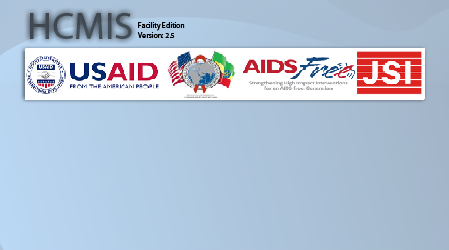
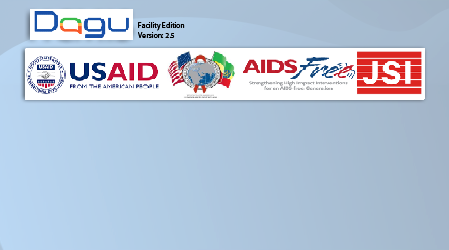
dagu rename and itemdetail overstock label fix

Changed region(s): [[0.0624, 0.028, 0.3118, 0.168]]

diff --git a/PharmInventory/MainWindow.Designer.cs b/PharmInventory/MainWindow.Designer.cs
@@ -61,6 +61,7 @@ namespace PharmInventory
             this.summaryChartsToolStripMenuItem = new System.Windows.Forms.ToolStripMenuItem();
             this.stockExpiryStatusToolStripMenuItem = new System.Windows.Forms.ToolStripMenuItem();
             this.costSummaryToolStripMenuItem = new System.Windows.Forms.ToolStripMenuItem();
+            this.wastageRateToolStripMenuItem = new System.Windows.Forms.ToolStripMenuItem();
             this.summaryReportToolStripMenuItem = new System.Windows.Forms.ToolStripMenuItem();
             this.transactionLogToolStripMenuItem = new System.Windows.Forms.ToolStripMenuItem();
             this.receiveTransactionToolStripMenuItem = new System.Windows.Forms.ToolStripMenuItem();
@@ -130,6 +131,7 @@ namespace PharmInventory
             this.lbiSummaryChart = new DevExpress.XtraNavBar.NavBarItem();
             this.lbiStockExpiryStatus = new DevExpress.XtraNavBar.NavBarItem();
             this.lbiCostSummary = new DevExpress.XtraNavBar.NavBarItem();
+            this.WastageRate = new DevExpress.XtraNavBar.NavBarItem();
             this.navBarGroup6 = new DevExpress.XtraNavBar.NavBarGroup();
             this.navBarFacilitySettings = new DevExpress.XtraNavBar.NavBarItem();
             this.navBarItem2 = new DevExpress.XtraNavBar.NavBarItem();
@@ -148,7 +150,6 @@ namespace PharmInventory
             this.statusStrip = new System.Windows.Forms.StatusStrip();
             this.toolStripStatusLabel1 = new System.Windows.Forms.ToolStripStatusLabel();
             this.bwDOSCalculator = new System.ComponentModel.BackgroundWorker();
-            this.wastageRateToolStripMenuItem = new System.Windows.Forms.ToolStripMenuItem();
             ((System.ComponentModel.ISupportInitialize)(this.logoPic)).BeginInit();
             ((System.ComponentModel.ISupportInitialize)(this.mainPanel)).BeginInit();
             this.mainPanel.SuspendLayout();
@@ -479,6 +480,14 @@ namespace PharmInventory
             this.costSummaryToolStripMenuItem.Text = "Cost Summary";
             this.costSummaryToolStripMenuItem.Click += new System.EventHandler(this.OpenMenuItem);
             // 
+            // wastageRateToolStripMenuItem
+            // 
+            this.wastageRateToolStripMenuItem.Name = "wastageRateToolStripMenuItem";
+            this.wastageRateToolStripMenuItem.Size = new System.Drawing.Size(186, 22);
+            this.wastageRateToolStripMenuItem.Tag = "Wastage Rate";
+            this.wastageRateToolStripMenuItem.Text = "Wastage Rate";
+            this.wastageRateToolStripMenuItem.Click += new System.EventHandler(this.OpenMenuItem);
+            // 
             // summaryReportToolStripMenuItem
             // 
             this.summaryReportToolStripMenuItem.Image = global::PharmInventory.Properties.Resources.paper_content_pencil_48;
@@ -720,7 +729,7 @@ namespace PharmInventory
             this.aboutHCMISToolStripMenuItem.Name = "aboutHCMISToolStripMenuItem";
             this.aboutHCMISToolStripMenuItem.Size = new System.Drawing.Size(180, 22);
             this.aboutHCMISToolStripMenuItem.Tag = "About";
-            this.aboutHCMISToolStripMenuItem.Text = "About HCMIS";
+            this.aboutHCMISToolStripMenuItem.Text = "About Dagu";
             this.aboutHCMISToolStripMenuItem.Click += new System.EventHandler(this.OpenMenuItem);
             // 
             // mnuCheckForUpdates
@@ -852,7 +861,8 @@ namespace PharmInventory
             this.navBarItem9,
             this.menuItemPriceOnlyReport,
             this.navBarItem10,
-            this.Activitylog});
+            this.Activitylog,
+            this.WastageRate});
             this.navBarControl1.LinkInterval = 5;
             this.navBarControl1.LinkSelectionMode = DevExpress.XtraNavBar.LinkSelectionModeType.OneInGroup;
             this.navBarControl1.Location = new System.Drawing.Point(0, 0);
@@ -1117,9 +1127,10 @@ namespace PharmInventory
             new DevExpress.XtraNavBar.NavBarItemLink(this.lbiSummaryReport),
             new DevExpress.XtraNavBar.NavBarItemLink(this.lbiSummaryChart),
             new DevExpress.XtraNavBar.NavBarItemLink(this.lbiStockExpiryStatus),
-            new DevExpress.XtraNavBar.NavBarItemLink(this.lbiCostSummary)});
+            new DevExpress.XtraNavBar.NavBarItemLink(this.lbiCostSummary),
+            new DevExpress.XtraNavBar.NavBarItemLink(this.WastageRate)});
             this.navBarGroup3.Name = "navBarGroup3";
-            this.navBarGroup3.SelectedLinkIndex = 5;
+            this.navBarGroup3.SelectedLinkIndex = 4;
             // 
             // lbiSummaryReport
             // 
@@ -1148,6 +1159,12 @@ namespace PharmInventory
             this.lbiCostSummary.Name = "lbiCostSummary";
             this.lbiCostSummary.SmallImage = global::PharmInventory.Properties.Resources._1287390117_chart_curve;
             this.lbiCostSummary.Tag = "Cost Summary";
+            // 
+            // WastageRate
+            // 
+            this.WastageRate.Caption = "Wastage Rate";
+            this.WastageRate.Name = "WastageRate";
+            this.WastageRate.Tag = "Wastage Rate";
             // 
             // navBarGroup6
             // 
@@ -1295,14 +1312,6 @@ namespace PharmInventory
             // 
             this.bwDOSCalculator.DoWork += new System.ComponentModel.DoWorkEventHandler(this.bwDOSCalculator_DoWork);
             this.bwDOSCalculator.RunWorkerCompleted += new System.ComponentModel.RunWorkerCompletedEventHandler(this.bwDOSCalculator_RunWorkerCompleted);
-            // 
-            // wastageRateToolStripMenuItem
-            // 
-            this.wastageRateToolStripMenuItem.Name = "wastageRateToolStripMenuItem";
-            this.wastageRateToolStripMenuItem.Size = new System.Drawing.Size(186, 22);
-            this.wastageRateToolStripMenuItem.Tag = "Wastage Rate";
-            this.wastageRateToolStripMenuItem.Text = "Wastage Rate";
-            this.wastageRateToolStripMenuItem.Click += new System.EventHandler(this.OpenMenuItem);
             // 
             // MainWindow
             // 
@@ -1464,6 +1473,7 @@ namespace PharmInventory
         private System.Windows.Forms.ToolStripMenuItem activityLogReportsToolStripMenuItem;
         private DevExpress.XtraNavBar.NavBarItem Activitylog;
         private System.Windows.Forms.ToolStripMenuItem wastageRateToolStripMenuItem;
+        private DevExpress.XtraNavBar.NavBarItem WastageRate;
     }
 }
 

diff --git a/PharmInventory/MainWindow.cs b/PharmInventory/MainWindow.cs
@@ -218,8 +218,9 @@ namespace PharmInventory
         {
             GeneralInfo hos = new GeneralInfo();
             hos.LoadAll();
-            this.Text = hos.HospitalName + @" - Health Commodity Management Information System (HCMIS)";
-           // picLogo.ImageLocation = ReadApp.GetValue("logoPath", typeof(string)).ToString() + hos.Logo;
+            //this.Text = hos.HospitalName + @" - Health Commodity Management Information System (HCMIS)";
+            this.Text = hos.HospitalName + @" - Dagu";
+            // picLogo.ImageLocation = ReadApp.GetValue("logoPath", typeof(string)).ToString() + hos.Logo;
         }
 
         private void Login()
@@ -362,14 +363,14 @@ namespace PharmInventory
             if (statusStrip.Items[0].Text == "AMC calculation started for all stores.")
             {
                 MessageBox.Show(@"Automatic AMC calculation is in progress, please wait until it is completed. 
-                    Check the bottom of the window for status update.", "HCMIS FE", MessageBoxButtons.OK);
+                    Check the bottom of the window for status update.", "Dagu FE", MessageBoxButtons.OK);
 
                 e.Cancel = true;
             }
             else if (statusStrip.Items[0].Text == "DOS calculation started for all stores.")
             {
                 MessageBox.Show(@"Automatic DOS calculation/indexing is in progress, please wait until it is completed. 
-                    Check the bottom of the window for status update.", "HCMIS FE", MessageBoxButtons.OK);
+                    Check the bottom of the window for status update.", "Dagu FE", MessageBoxButtons.OK);
 
                 e.Cancel = true;
             }

diff --git a/PharmInventory/Program.cs b/PharmInventory/Program.cs
@@ -170,7 +170,7 @@ namespace PharmInventory
 
         public static void ShowHCMISVersionInfoMessageBox()
         {
-            XtraMessageBox.Show(string.Format("HCMIS Version: {0}", HCMISVersionString), "Version Information",
+            XtraMessageBox.Show(string.Format("Dagu Version: {0}", HCMISVersionString), "Version Information",
                                 MessageBoxButtons.OK, MessageBoxIcon.Information);
         }
 
@@ -215,7 +215,7 @@ namespace PharmInventory
 
             if (!e.UpdateAvailable)
             {
-                XtraMessageBox.Show("No updates found!", "HCMIS", MessageBoxButtons.OK, MessageBoxIcon.Information);
+                XtraMessageBox.Show("No updates found!", "Dagu", MessageBoxButtons.OK, MessageBoxIcon.Information);
                 return;
             }
 
@@ -266,7 +266,7 @@ namespace PharmInventory
 
             //If it reaches here, a restart is required for the update to be applied.
             RestartRequired = true;
-            if (XtraMessageBox.Show("Update Completed! Update will not take effect until you restart HCMIS.  Restart HCMIS now?", "Success", MessageBoxButtons.YesNo, MessageBoxIcon.Question) == DialogResult.Yes)
+            if (XtraMessageBox.Show("Update Completed! Update will not take effect until you restart Dagu.  Restart Dagu now?", "Success", MessageBoxButtons.YesNo, MessageBoxIcon.Question) == DialogResult.Yes)
             {
                 Application.Restart();
             }

diff --git a/PharmInventory/Forms/Profiles/Hospital.Designer.cs b/PharmInventory/Forms/Profiles/Hospital.Designer.cs
@@ -541,7 +541,7 @@ namespace PharmInventory.Forms.Profiles
             this.layoutControlItem12.Location = new System.Drawing.Point(0, 24);
             this.layoutControlItem12.Name = "layoutControlItem12";
             this.layoutControlItem12.Size = new System.Drawing.Size(396, 24);
-            this.layoutControlItem12.Text = "HCMIS ID";
+            this.layoutControlItem12.Text = "Dagu ID";
             this.layoutControlItem12.TextSize = new System.Drawing.Size(123, 13);
             // 
             // layoutControlItem5
@@ -662,7 +662,7 @@ namespace PharmInventory.Forms.Profiles
             this.layoutControlGroup5.Location = new System.Drawing.Point(0, 371);
             this.layoutControlGroup5.Name = "layoutControlGroup5";
             this.layoutControlGroup5.Size = new System.Drawing.Size(420, 67);
-            this.layoutControlGroup5.Text = "HCMIS FE Setting";
+            this.layoutControlGroup5.Text = "Dagu FE Setting";
             // 
             // layoutControlItem17
             // 

diff --git a/PharmInventory/Forms/Modals/ItemDetailReport.cs b/PharmInventory/Forms/Modals/ItemDetailReport.cs
@@ -362,6 +362,12 @@ namespace PharmInventory.Forms.Modals
                 tt = new TimeSpan(_dtCurrent.Ticks - dtTran.Ticks);
                 lblTime.Text = " For the past " + tt.TotalDays.ToString() + " Days";
             }
+            else if (soh>0 && max==0)
+            {
+                lblstat.Text = "Over Stock";
+                lblStatus.Text = "Over Stock";
+                lblCurStatus.Text = "Over Stock";
+            }
             else //if (soh> min && soh <= max)
             {
                 lblstat.Text = "Normal";
@@ -369,6 +375,7 @@ namespace PharmInventory.Forms.Modals
                 lblCurStatus.Text = "Normal";
 
             }
+          
             //}
             //else
             //{
